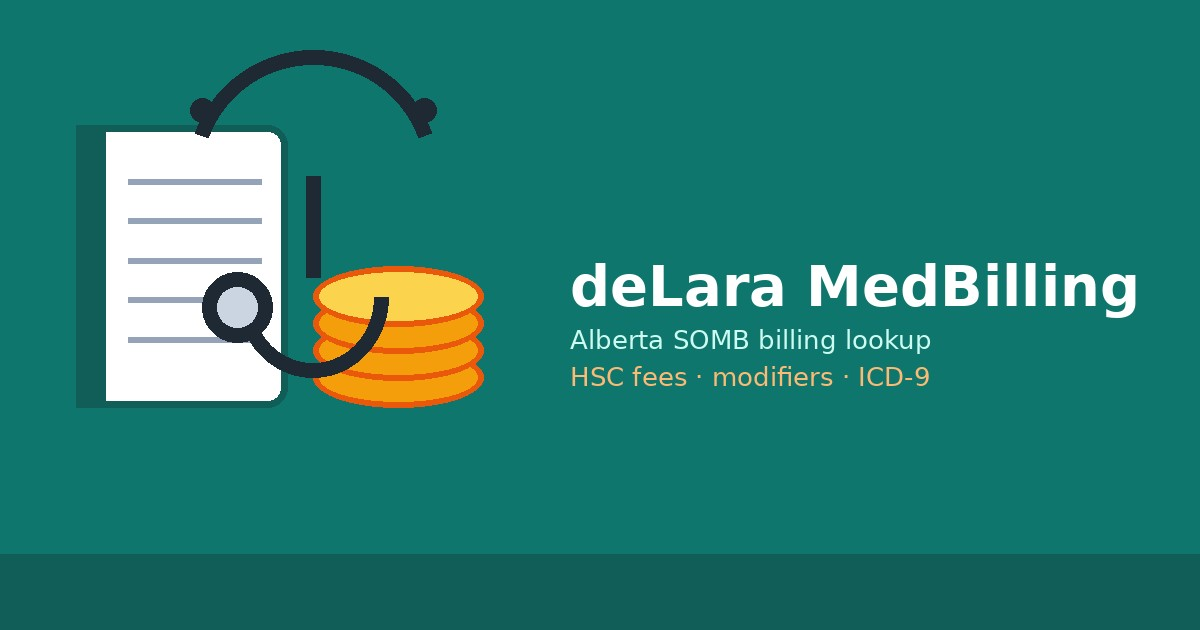
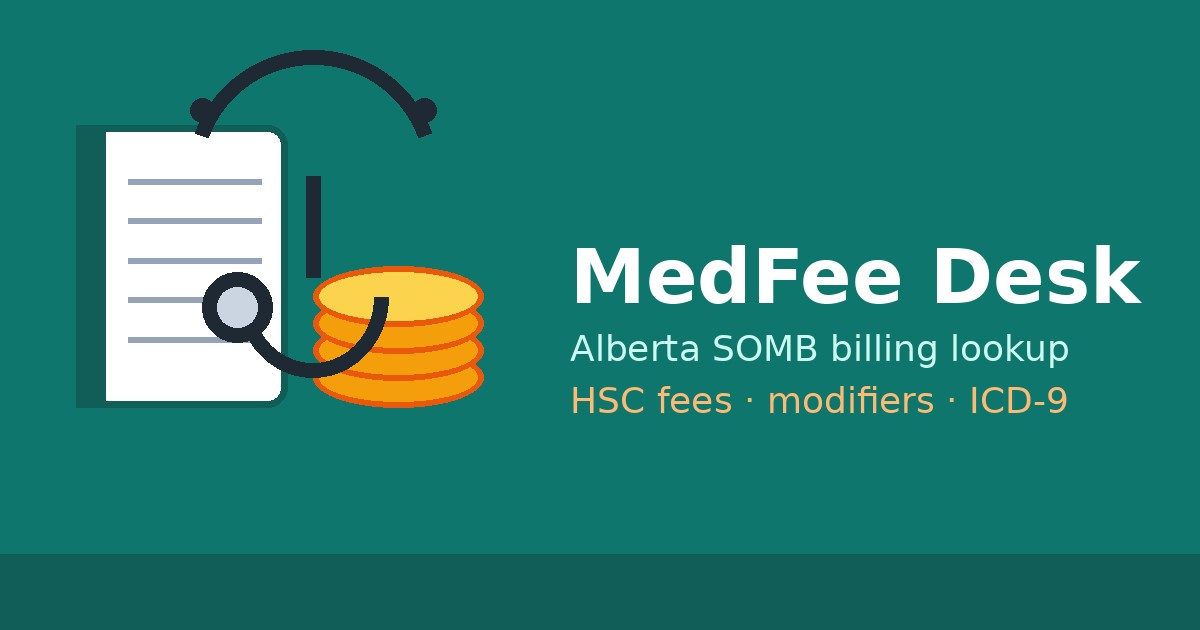
Import site bundle 9ea5b0f6b4fff64c0ca78f569ec51d2b9d76e1d5768d6cdd255e557f357dab2a

Changed region(s): [[0.4625, 0.3921, 0.9558, 0.6635]]

diff --git a/site/js/app.js b/site/js/app.js
@@ -1,4 +1,4 @@
-/* deLara MedBilling - app. Static, offline-capable. No analytics, no trackers, no patient data stored. */
+/* MedFee Desk - app. Static, offline-capable. No analytics, no trackers, no patient data stored. */
 (function () {
   'use strict';
   const $ = (s, el) => (el || document).querySelector(s);
@@ -44,21 +44,21 @@
   const keyToItem = (k, t) => ({ type: k[0] === 'H' ? 'HSC' : 'ICD9', code: k.slice(2), ...(t ? { at: t } : {}) });
   function exportSaved() {
     const now = new Date();
-    const data = { app: 'deLara MedBilling', kind: 'favourites', version: 1, exported: now.toISOString(),
+    const data = { app: 'MedFee Desk', kind: 'favourites', version: 1, exported: now.toISOString(),
       favourites: FAVS.map(k => keyToItem(k, TS.f[k])), recent: RECENT.map(k => keyToItem(k, TS.r[k])) };
     const d = `${now.getFullYear()}-${String(now.getMonth() + 1).padStart(2, '0')}-${String(now.getDate()).padStart(2, '0')}`;
-    const name = `delara-medbilling-favourites-${d}.json`, text = JSON.stringify(data, null, 1);
+    const name = `medfee-desk-favourites-${d}.json`, text = JSON.stringify(data, null, 1);
     const blob = new Blob([text], { type: 'application/json' });
     const download = () => { const u = URL.createObjectURL(blob); const a = document.createElement('a'); a.href = u; a.download = name; a.rel = 'noopener'; document.body.appendChild(a); a.click(); a.remove(); setTimeout(() => URL.revokeObjectURL(u), 4000); toast('Exported ' + name); };
     // iPhone/iPad (Safari and home-screen app): the share sheet offers "Save to Files", AirDrop, Mail. Elsewhere: a normal download.
     let file = null; try { file = new File([blob], name, { type: 'application/json' }); } catch (e) {}
     if (phone && file && navigator.canShare && navigator.canShare({ files: [file] })) {
-      navigator.share({ files: [file], title: 'deLara MedBilling favourites' }).then(() => toast('Exported ' + name)).catch(err => { if (!err || err.name !== 'AbortError') download(); });
+      navigator.share({ files: [file], title: 'MedFee Desk favourites' }).then(() => toast('Exported ' + name)).catch(err => { if (!err || err.name !== 'AbortError') download(); });
     } else download();
   }
   function parseImport(text) {
     const o = JSON.parse(text);
-    if (!o || typeof o !== 'object' || (!Array.isArray(o.favourites) && !Array.isArray(o.recent))) throw new Error('not a deLara MedBilling favourites file');
+    if (!o || typeof o !== 'object' || (!Array.isArray(o.favourites) && !Array.isArray(o.recent))) throw new Error('not a MedFee Desk favourites file');
     const conv = arr => (Array.isArray(arr) ? arr : []).map(x => {
       if (!x || typeof x.code !== 'string') return null;
       const code = x.code.trim().toUpperCase(), t = x.type === 'ICD9' ? 'I' : 'H';
@@ -71,7 +71,7 @@
   function importSaved(file) {
     const r = new FileReader();
     r.onload = () => {
-      let p; try { p = parseImport(String(r.result)); } catch (e) { alert('Import failed: this is not a deLara MedBilling favourites file.'); return; }
+      let p; try { p = parseImport(String(r.result)); } catch (e) { alert('Import failed: this is not a MedFee Desk favourites file.'); return; }
       const newFav = [...new Set(p.fav.map(x => x.key))].filter(k => !FAVS.includes(k));
       const skipped = p.skipped - p.fav.length - p.rec.length;
       if (!newFav.length && !p.rec.length) { alert('Nothing to import: all favourites in this file are already saved' + (skipped ? ` (${skipped} unknown code${skipped > 1 ? 's' : ''} skipped)` : '') + '.'); return; }
@@ -710,7 +710,7 @@
       const js = r.journals.filter(o => !o.obgy || skill === 'OBGY' || skill === 'BASE' || !icd);
       return `<div class="region"><h3>${esc(r.name)}</h3><ul>${orgs.map(item).join('')}</ul>${r.local ? `<h4>${esc(r.localLabel || 'Regional and local resources')}</h4><ul>${r.local.map(item).join('')}</ul>` : ''}${r.charities ? `<h4>National Health Charities &amp; Organizations</h4><ul>${r.charities.map(item).join('')}</ul>` : ''}<h4>Journals</h4><ul>${js.map(item).join('')}</ul></div>`;
     }).join('')}
-    <p class="small muted">External links for reference; deLara MedBilling is not affiliated. Search links carry only the condition name${icd ? ` ("${esc(term)}")` : ''}.</p>
+    <p class="small muted">External links for reference; MedFee Desk is not affiliated. Search links carry only the condition name${icd ? ` ("${esc(term)}")` : ''}.</p>
     <p class="small muted">ICD-10/ICD-11 equivalents: no validated crosswalk from the Alberta ICD-9 supplement is bundled; use the WHO ICD-10/11 browsers above.</p>`;
   }
   function wireRegion(root, icd) {
@@ -798,7 +798,7 @@
   function gr(id) { return RULEBY[id] ? `<a href="#/rules/${id}">GR ${id}</a>` : 'GR ' + id; }
   function renderNotes() {
     $('#notes').innerHTML = `<div class="notes">
-    <p class="small muted">Short claim notes written for deLara MedBilling from the SOMB effective ${esc(fmtDate(META.sombEffective))}. Fees shown for fee skill ${esc(skill === 'BASE' ? 'base' : skill)}. The governing rule text prevails.</p>
+    <p class="small muted">Short claim notes written for MedFee Desk from the SOMB effective ${esc(fmtDate(META.sombEffective))}. Fees shown for fee skill ${esc(skill === 'BASE' ? 'base' : skill)}. The governing rule text prevails.</p>
     <div class="card"><h3>Cesarean section and BMI</h3><ul>
       <li>${hsc('86.9C')}; ${hsc('86.9D')}; ${hsc('86.9B')}. Neither 86.9C nor 86.9D may be claimed with 81.29C (HSC note).</li>
       <li>BMI modifier (BMIPRO for the surgeon/assistant, BMIANE/BMI2AN for anaesthesia) adds 25% where the price list lists it: adult BMI ≥ 40 or paediatric &gt; 97th percentile — ${gr('18.1')}.</li>
@@ -858,7 +858,7 @@
     $('#aiList').addEventListener('click', e => {
       const b = e.target.closest('button[data-ai]'); if (!b) return;
       aiPick = AIS.find(a => a.id === b.dataset.ai);
-      $('#aiConfirmText').textContent = `This opens ${aiPick.name} outside deLara MedBilling. Do not add patient names, PHN, DOB, chart or claim numbers.`;
+      $('#aiConfirmText').textContent = `This opens ${aiPick.name} outside MedFee Desk. Do not add patient names, PHN, DOB, chart or claim numbers.`;
       $('#aiList').hidden = true; $('#aiConfirm').hidden = false;
     });
     $('#aiBack').onclick = () => { $('#aiConfirm').hidden = true; $('#aiList').hidden = false; };

diff --git a/site/index.html b/site/index.html
@@ -5,20 +5,24 @@
 <meta name="viewport" content="width=device-width, initial-scale=1, viewport-fit=cover">
 <meta http-equiv="Content-Security-Policy" content="default-src 'self'; script-src 'self'; style-src 'self'; img-src 'self' data:; connect-src 'self' https://api.web3forms.com; form-action https://api.web3forms.com; manifest-src 'self'; worker-src 'self'; base-uri 'self'">
 <meta name="referrer" content="no-referrer">
-<title>deLara MedBilling</title>
-<meta name="description" content="Private Alberta SOMB billing lookup: health service codes, fees by fee skill, modifiers, governing rules and ICD-9 codes.">
+<title>MedFee Desk</title>
+<meta name="description" content="MedFee Desk: private Alberta SOMB billing lookup: health service codes, fees by fee skill, modifiers, governing rules and ICD-9 codes.">
 <meta name="theme-color" content="#0f766e">
 <meta name="apple-mobile-web-app-capable" content="yes">
 <meta name="mobile-web-app-capable" content="yes">
 <meta name="apple-mobile-web-app-status-bar-style" content="black-translucent">
-<meta name="apple-mobile-web-app-title" content="MedBilling">
-<meta property="og:title" content="deLara MedBilling">
-<meta property="og:description" content="Alberta SOMB billing lookup for physicians.">
+<meta name="apple-mobile-web-app-title" content="MedFee Desk">
+<meta property="og:title" content="MedFee Desk">
+<meta property="og:description" content="MedFee Desk: Alberta SOMB billing lookup for physicians.">
+<meta property="og:site_name" content="MedFee Desk">
 <meta property="og:image" content="https://tp8p7c4vwr-del.github.io/delara-medbilling/og.jpg">
 <meta property="og:url" content="https://tp8p7c4vwr-del.github.io/delara-medbilling/">
 <meta property="og:type" content="website">
 <meta name="twitter:image" content="https://tp8p7c4vwr-del.github.io/delara-medbilling/og.jpg">
 <meta name="twitter:card" content="summary_large_image">
+<meta name="twitter:title" content="MedFee Desk">
+<meta name="twitter:description" content="MedFee Desk: Alberta SOMB billing lookup for physicians.">
+<meta name="application-name" content="MedFee Desk">
 <link rel="manifest" href="manifest.webmanifest">
 <link rel="icon" href="icons/icon-192.png" sizes="192x192">
 <link rel="apple-touch-icon" href="icons/apple-touch-icon.png">
@@ -26,9 +30,9 @@
 </head>
 <body>
 <header class="top">
-  <a class="brand" id="homeLink" href="./" aria-label="deLara MedBilling home">
+  <a class="brand" id="homeLink" href="./" aria-label="MedFee Desk home">
     <img src="icons/icon-192.png" alt="" width="32" height="32">
-    <span class="title" aria-hidden="true">deLara MedBilling</span>
+    <span class="title" aria-hidden="true">MedFee Desk</span>
   </a>
   <label class="skill">
     <span>Fee skill</span>
@@ -134,14 +138,14 @@
 <footer class="foot">
   <p id="dataline" class="dataline">Data: SOMB effective …, source alberta.ca</p>
   <p class="disclaimer">Reference only; verify against the current SOMB before submitting claims.</p>
-  <p class="small muted">External links for reference; deLara MedBilling is not affiliated.</p>
+  <p class="small muted">External links for reference; MedFee Desk is not affiliated.</p>
   <p class="small muted">No patient data is stored. No analytics or trackers. Search runs on this device.</p>
   <details class="feedback">
     <summary>Suggest a change</summary>
     <form id="fb" novalidate>
       <p class="warn small">Do not include patient names, PHN, DOB, chart or claim numbers.</p>
       <input type="hidden" name="access_key" value="60e64aa8-fc33-4b85-9742-2a973a88369e">
-      <input type="hidden" name="subject" value="deLara MedBilling feedback">
+      <input type="hidden" name="subject" value="MedFee Desk feedback">
       <input type="checkbox" name="botcheck" class="hp" tabindex="-1" autocomplete="off" aria-hidden="true">
       <label>Your email (optional)<input type="email" name="email" autocomplete="email"></label>
       <label>Suggestion<textarea name="message" rows="4" required></textarea></label>
@@ -149,7 +153,7 @@
       <p id="fbmsg" class="small" role="status"></p>
     </form>
   </details>
-  <div class="copyright">© 2026 deLara MedBilling. All rights reserved. This app is protected by copyright. Reproduction or duplication without permission is an infringement.</div>
+  <div class="copyright">© 2026 MedFee Desk. All rights reserved. This app is protected by copyright. Reproduction or duplication without permission is an infringement.</div>
 </footer>
 
 <dialog id="aiDialog">

diff --git a/site/sw.js b/site/sw.js
@@ -1,7 +1,7 @@
-/* Offline cache for deLara MedBilling. Same-origin only; never caches or forwards anything else.
+/* Offline cache for MedFee Desk. Same-origin only; never caches or forwards anything else.
    App shell (HTML/JS/CSS/manifest) is network-first so updates show up immediately; data and icons are
    stale-while-revalidate. Install fetches bypass the HTTP cache so a new version never caches old files. */
-const V = 'mb-v8-2026-04-01';
+const V = 'mb-v9-2026-04-01';
 const ASSETS = ['./', 'index.html', 'css/app.css', 'js/search.js', 'js/app.js', 'manifest.webmanifest',
   'icons/icon-192.png', 'icons/icon-512.png', 'icons/apple-touch-icon.png',
   'data/meta.json', 'data/codes.json', 'data/rules.json', 'data/modifiers.json', 'data/explanatory.json',

diff --git a/site/js/search.js b/site/js/search.js
@@ -1,4 +1,4 @@
-/* deLara MedBilling - local BM25 + fuzzy + synonym search. Runs entirely in the browser; no network. */
+/* MedFee Desk - local BM25 + fuzzy + synonym search. Runs entirely in the browser; no network. */
 (function (global) {
   'use strict';
   const STOP = new Set('a an and or the of for to in on at by with without from is are be as per any other than this that into its it within each all not may only same when which who over under after before more less than s e g eg etc nec'.split(' '));
